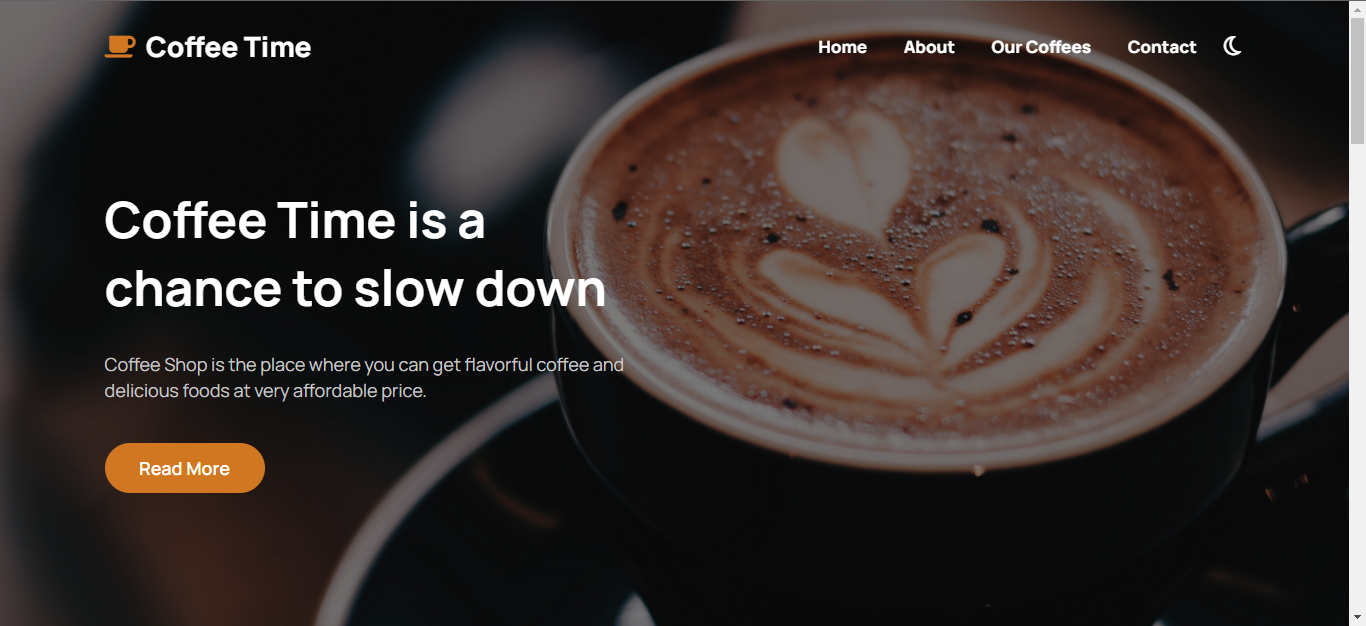
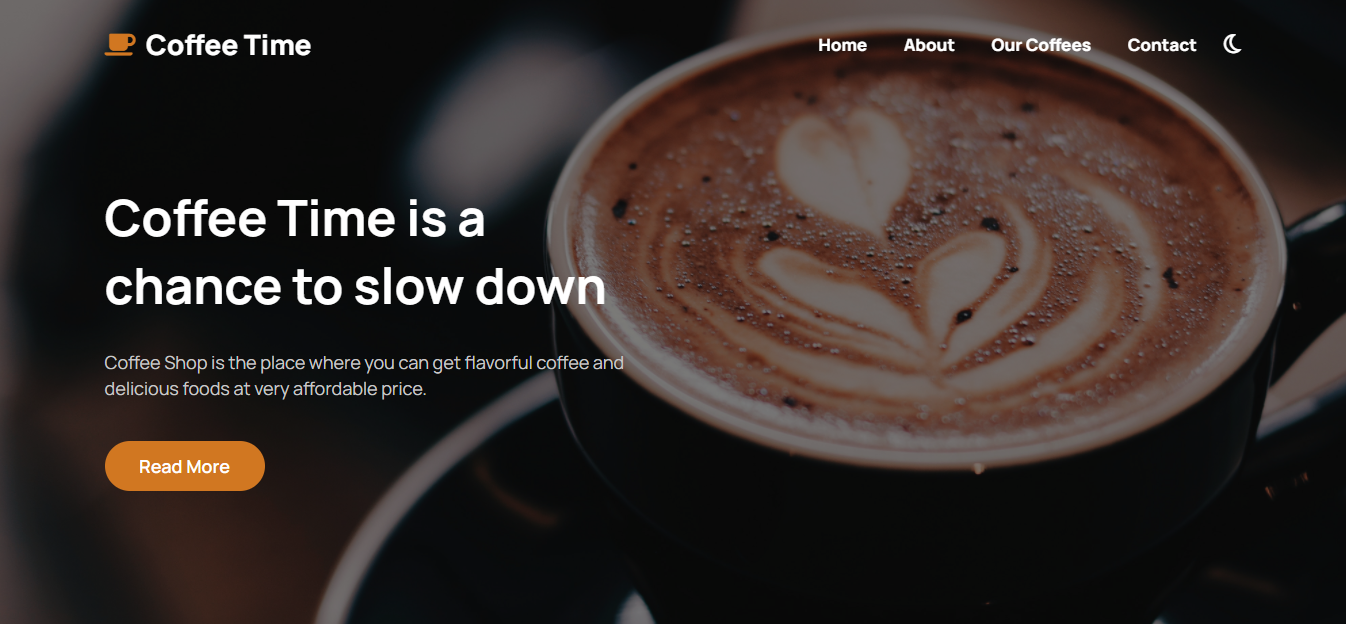
finish-portfolio

diff --git a/src/components/portfolios/PortfolioDetails.vue b/src/components/portfolios/PortfolioDetails.vue
@@ -2,16 +2,27 @@
 import { ref } from 'vue'
 import CreationVue from './Creation.vue'
 import coffee from '../../assets/projects-img/coffee.png'
+import disney from '../../assetS/projects-img/disney2.png'
+import store from '../../assetS/projects-img/Capture.jpg'
+import hxh from '../../assetS/projects-img/hunterxhunterpage.jpg'
+import todo from '../../assetS/projects-img/todo-proj.jpg'
 
 const portfolios = ref([
-    { name: 'Coffee Website', image:coffee, details:'A coffee website is a website that allow the user to view and choose their favorite coffee in the menu', tools:['HTML', 'CSS', 'JavaScript'], code:'https://github.com/lukeqwrt/Coffee-shop', livedemo:'https://coffee-shop-sillano.netlify.app/' }
+    { name: 'Coffee Website', image:coffee, details:'A coffee website is a website that allow the user to view and choose their favorite coffee in the menu', tools:['HTML', 'CSS', 'JavaScript'], code:'https://github.com/lukeqwrt/Coffee-shop', livedemo:'https://coffee-shop-sillano.netlify.app/' },
+    { name: 'Disney Clone', image:disney, details:'A Disney Plus Clone using tmdb api and Firebase Authentication enabling the user to view trending movies by genre and also see the details.', tools:['Vue JS', 'SCSS'], code:'https://github.com/lukeqwrt/disney-clone', livedemo:'https://lukeqwrt.github.io/disney-clone/' },
+    { name: 'E-commerce Website', image:store, details:'This is and E-commerce website store that allow the user to shop and pick items to add cart and has a nice design and page', tools:['HTML', 'CSS', 'JavaScript'], code:'https://github.com/lukeqwrt/store-website', livedemo:'https://lukeqwrt.github.io/store-website/' },
+    { name: 'Anime Website', image:hxh, details:'This is a simple anime website that shows the details of the authors and where we can watch it etc.', tools:['HTML', 'CSS', 'JavaScript'], code:'https://github.com/lukeqwrt/HunterXHunter', livedemo:'https://hunterxhunterpage.netlify.app/' },
+    { name: 'Todo App', image:todo, details:'This is a simple todo-list web application to practice my skills in vue.', tools:['Vue JS', 'CSS'], code:'https://github.com/lukeqwrt/TODO', livedemo:'https://lukeqwrt.github.io/TODO/' },
 ])
 
 </script>
 
 <template>
-    <ul class="portfolio_details py-5">
-        <li class="dev sm:flex sm:gap-5 lg:gap-8" v-for="portfolio in portfolios" :key="portfolio">
+    <ul class="portfolio_details grid gap-16 py-5 ">
+        <li 
+            :class="{'sm:flex-row-reverse' : index % 2 == 0}"
+            class="dev md:flex sm:gap-5 lg:gap-10 p-5" v-for="(portfolio, index) in portfolios" :key="portfolio"
+        >
             <CreationVue :PortDetails="portfolio" />
         </li>
     </ul>

diff --git a/src/views/HomeView.vue b/src/views/HomeView.vue
@@ -4,33 +4,41 @@ import White from '../assets/mypic/white.jpg'
 import TechStack from '../components/landing/TechStack.vue'
 import AboutMe from "../components/about/AboutMe.vue"
 import Portfolio from "../components/portfolios/Portfolio.vue"
+import Contact from "../components/contact/Contact.vue"
+import Footer from "../components/footer/footer.vue"
 
 </script>
 
 <template>
   <main>
     <!-- landing -->
-    <div class="landing p-5 md:p-12 container mx-auto flex flex-col justify-start sm:justify-center items-center relative" >
-      <div class="wrapper">
-        <div class="flex-1 flex gap-4 flex-col justify-center items-center sm:items-start sm:flex-row-reverse sm:gap-10 sm:flex-[unset] sm:mb-[4rem] md:items-center md:mb-[6rem] md:gap-[3rem] lg:gap-[9rem] lg:mb-[6rem]">
+    <section id="Home" class="landing h-[100vh] p-5 md:p-12 container mx-auto flex flex-col justify-center sm:justify-center items-center " >
+      <div class="wrapper w-full sm:w-[unset] h-full lg:max-h-[580px] flex flex-col justify-center items-center relative">
+        <div class="flex-1 flex gap-4 flex-col justify-center items-center sm:items-start sm:flex-row-reverse sm:gap-10 sm:flex-[unset]  md:items-center  md:gap-[3rem] lg:gap-[9rem] ">
           <img :src="White" alt="" class="rounded-full object-cover h-auto w-[180px] sm:w-[200px] md:w-[290px]">
           <!-- title content -->
           <TitleContentVue />
         </div>
         <TechStack />
       </div>
-    </div>
+    </section>
 
     <!-- about me -->
     <AboutMe />
 
     <!-- Portfolios -->
     <Portfolio />
+
+    <!-- Contact -->
+    <Contact />
+
+    <!-- Footer -->
+    <Footer />
   </main>
 </template>
 
 <style scoped>
-  .landing{
+  /* .landing{
     height: calc(100vh - 75px);
   }
 
@@ -38,5 +46,5 @@ import Portfolio from "../components/portfolios/Portfolio.vue"
     .landing{
       height: calc(100vh - 100px);
     }
-}
+} */
 </style>

diff --git a/src/components/about/AboutMe.vue b/src/components/about/AboutMe.vue
@@ -1,13 +1,18 @@
 <script setup>
+
 </script>
 
+<!-- data-aos="fade-up" 
+            data-aos-delay="550"
+            data-aos-duration="1000" -->
 <template>
-    <section class="about py-12 my-5">
+    <section id="About" class="about py-12 my-5 " >
         <div class="about_wrapper lg:py-12 container sm:max-w-[566px] md:max-w-[720px] lg:max-w-[840px] mx-auto flex flex-col gap-10 lg:gap-12  md:flex-row">
             <div class="about-photo">
-                <img class="rounded-lg md:w-[3300px] lg:w-[2800px] h-auto" src="../../assets/img/about2_croped.jpg" alt="">
+                <img class="rounded-lg w-[300px] md:w-[3300px] lg:w-[2800px] h-auto" src="../../assets/img/about2_croped.jpg" alt="">
             </div>
-            <div class="about_details">
+            <div class="about_details"
+            >
                 <h3 class="section_title">ABOUT ME</h3>
                 <h1 class="second_title">A dedicated Front-end Developer based in Philippines</h1>
                 <p class="text-[#686868] text-sm leading-6">As a Junior Front-end Developer, I possess an impressive arsenal of skills in HTML, CSS, JavaScript, Vue, Tailwind CSS, Bootstrap and SCSS. I excel in designing and maintaining responsive websites that offer a smooth user experience. My expertise lies in crafting dynamic, engaging interfaces through writing clean and optimized code and utilizing cutting-edge development tools and techniques. I am also a team player who thrives in collaborating with cross functional teams to produce outstanding web applications.</p>

diff --git a/src/components/header/Header.vue b/src/components/header/Header.vue
@@ -1,5 +1,5 @@
 <script setup>
-import { ref } from 'vue'
+import { ref, onMounted } from 'vue'
 import MobileNav from '../header/MobileNav.vue';
 import NavItems from '../header/NavItems.vue';
 
@@ -10,13 +10,26 @@ const navBarClicked = () => {
   toggleActive.value = !toggleActive.value
 }
 
+const currentwidth = ref() 
+ 
+
+
+  window.addEventListener("resize", () => {
+    if(currentwidth.value <= 768){
+        toggleActive.value = false;
+        return;
+    }
+    toggleActive.value = false
+    return
+  })
+  
+
 </script>
 
 <template>
-  <header class=" h-[75px] w-full px-5 md:px-12 lg:container lg:mx-auto lg:h-[100px]">
-      <nav class="h-full flex items-center justify-between relative">
-        <h3 class="logo text-lg sm:text-xl font-[600] lg:text-2xl">Luke&Aira</h3>
-
+  <header class="bg-[#fff] h-[75px]  px-5 md:px-12 lg:container lg:mx-auto lg:h-[78px] fixed w-full z-50 top-0 left-0 right-0">
+      <nav class="h-full  flex items-center justify-between relative">
+        <h3 class="logo text-lg sm:text-xl font-[600] lg:text-1xl">Luke.dev();</h3>
         <div @click="navBarClicked()" class="navbar-toggle absolute right-0 top-[50%] translate-y-[-50%] cursor-pointer block md:hidden z-20">
           <span class="w-[25px] h-[3px] my-[5px] mx-auto block bg-black duration-200" :class="toggleActive ? 'translate-y-[8px] rotate-[45deg]' : 'translate-y-[0px]' "></span>
           <span class="w-[25px] h-[3px] my-[5px] mx-auto block bg-black duration-200" :class="toggleActive ? 'opacity-0' : 'opacity-1' "></span>

diff --git a/src/components/contact/Contact.vue b/src/components/contact/Contact.vue
@@ -1,0 +1,29 @@
+<script setup>
+import { ref } from 'vue'
+
+const contact_details = ref([
+    { name: 'Location', description: 'Philippines', image:'fa-solid fa-map-location-dot'},
+    { name: 'Email', description: 'lukeadrian9@gmail.com', image:'fa-solid fa-square-envelope'},
+    { name: 'Facebook', description: 'luke sillano', image:'fa-brands fa-square-facebook'},
+])
+</script>
+
+<template>
+    <section id="Contact" class="contact py-12 my-5">
+        <div class="contact_wrapper lg:py-12 container sm:max-w-[566px] md:max-w-[720px] lg:max-w-[840px] mx-auto flex flex-col ">
+            <div class="contact-title mb-5 md:mb-10">
+                <h3 class="section_title">CONTACT ME</h3>
+                <h1 class="second_title">Don't be shy! Message me!</h1>
+            </div>
+            <div class="contact_details flex flex-wrap justify-between md:justify-start gap-8 py-4 md:gap-12">
+                <div class="detail flex-grow-1 flex items-center gap-4 md:gap-5" v-for="cd in contact_details" :key="cd.name">
+                    <i :class="cd.image" class=" text-2xl md:text-4xl text-[#478ae2]"></i>
+                    <div class="detail_content flex gap-1 flex-col">
+                        <span class="font-bold text-md">{{ cd.name }}</span>
+                        <span class="text-[#686868] text-sm">{{ cd.description }}</span>
+                    </div>
+                </div>
+            </div>
+        </div>
+    </section>
+</template>

diff --git a/src/components/portfolios/Creation.vue b/src/components/portfolios/Creation.vue
@@ -5,8 +5,8 @@ const { name, image, details, tools, code, livedemo } = props.PortDetails
 </script>
 
 <template>
-    <div class="detail_image mb-5 px-5">
-        <img :src="image" alt="none" class="rounded-md h-auto sm:max-w-[320px] lg:max-w-[400px]">
+    <div class="detail_image mb-7 md:mb-0">
+        <img :src="image" alt="none" class="rounded-md h-auto md:max-w-[320px] lg:max-w-[400px]" style="box-shadow: rgba(0, 0, 0, 0.45) 0px 25px 20px -20px;">
     </div>
     <div class="detail_content px-3 text-center">
         <h2 class="font-bold text-lg mb-2">{{ name }}</h2>
@@ -19,11 +19,11 @@ const { name, image, details, tools, code, livedemo } = props.PortDetails
             </li>
         </ul>
         <div class="links flex justify-around mt-5 text-md font-bold">
-            <a href="" class="flex gap-3 justify-center items-center">
+            <a target="_blank" rel="noopener noreferrer" :href="code" class="flex gap-3 justify-center items-center">
                 <span>Code</span>
                 <img class="h-[25px] w-[25px]" src="../../assets/img/github-mark.png" alt="">
             </a>
-            <a href="" class="flex gap-3 justify-center items-center">
+            <a target="_blank" rel="noopener noreferrer" :href="livedemo" class="flex gap-3 justify-center items-center">
                 <span>Live Demo</span>
                 <i class="fa-solid fa-arrow-up-right-from-square"></i>
             </a>

diff --git a/src/components/header/NavItems.vue b/src/components/header/NavItems.vue
@@ -8,19 +8,23 @@ const navitems = ref([
   { name: 'Contact' },
 ])
 
+const navitemClick = () => {
+    this.$refs.targetRef.scrollIntoView({ behavior: 'smooth' });
+}
+
 </script>
 
 <template>
     <ul class="">
-        <li 
-            v-for="nav in navitems" :key="nav" 
-            class="navitem flex justify-center items-center cursor-pointer group"
-            >
-            <div class="relative  py-3 md:py-2 text-md cursor-pointer font-[600]">
-                {{ nav.name }}
-                <span class="underline absolute bottom-0 left-[50%] translate-x-[-50%] block h-[2px] bg-black duration-200 w-0 group-hover:w-full"></span>
-            </div>
-            
-        </li>
+        <a :href="`#${nav.name}`" v-for="nav in navitems" :key="nav" 
+                class="navitem flex justify-center items-center cursor-pointer group">
+            <li>
+                <div class="relative  py-3 md:py-2 text-md cursor-pointer font-[600]">
+                    {{ nav.name }}
+                    <span class="underline absolute bottom-0 left-[50%] translate-x-[-50%] block h-[2px] bg-black duration-200 w-0 group-hover:w-full"></span>
+                </div>
+                
+            </li>
+        </a>
     </ul>
 </template>

diff --git a/src/components/portfolios/Portfolio.vue b/src/components/portfolios/Portfolio.vue
@@ -4,9 +4,9 @@ import PortfolioDetails from './PortfolioDetails.vue';
 </script>
 
 <template>
-   <section class="portfolio py-5">
-    <div class="portfolio_wrapper container lg:py-12 sm:max-w-[566px] md:max-w-[720px] lg:max-w-[840px] mx-auto">
-        <div class="portfolio_title mb-12">
+   <section id="Projects" class="portfolio py-5">
+    <div class="portfolio_wrapper container lg:py-5 sm:max-w-[566px] md:max-w-[720px] lg:max-w-[840px] mx-auto">
+        <div class="portfolio_title mb-5 md:mb-10">
             <h3 class="section_title">PORTFOLIO</h3>
             <h1 class="second_title">Each project is a unique piece of development</h1>
         </div>
@@ -15,3 +15,5 @@ import PortfolioDetails from './PortfolioDetails.vue';
     </div>
    </section>
 </template>
+
+

diff --git a/src/components/landing/TitleContent.vue b/src/components/landing/TitleContent.vue
@@ -14,7 +14,7 @@ import linkedin from '../../assets/img/linkedin.png'
         </div>
 
         <div class="details w-full max-w-[255px] text-center sm:text-left md:w-full md:max-w-[310px] justify-self-center md:justify-self-start">
-            <span class="text-[13px] md:text-[14px]">Hi, I'm Luke Adrian Sillano. A passionate front Front-End Developer blablabla</span>
+            <span class="text-[13px] md:text-[14px]">Hi, I'm Luke Adrian Sillano. A passionate front Front-End Developer. I want to be successful some day</span>
         </div>
 
         <div class="logos justify-self-center sm:justify-self-start flex items-center gap-3 md:gap-5 justify-center">

diff --git a/src/components/landing/TechStack.vue b/src/components/landing/TechStack.vue
@@ -13,7 +13,7 @@ const techStack = ref([html, css, js, tailwind, bootstrap, sass, firebase])
 </script>
 
 <template>
-    <div class="tech pe-2 flex gap-2 absolute bottom-5 left-5 sm:relative sm:left-0 lg:gap-4">
+    <div class="tech pe-2 flex gap-2 absolute bottom-0 left-0 sm:left-0  md:left-0 md:bottom-0 lg:gap-4">
         <div class="w-[60px] sm:w-[100px] lg:w-[120px] flex justify-between items-center">
             <span class="font-bold text-sm lg:text-lg">Tech Stack </span>
             <div class=" font-[400]">|</div> 

diff --git a/src/components/footer/footer.vue b/src/components/footer/footer.vue
@@ -1,0 +1,11 @@
+<script setup>
+</script>
+
+<template>
+    <section class="footer bg-[#131313] text-white text-center md:text-left">
+        <div class="wrapper py-8 container sm:max-w-[566px] md:max-w-[720px] lg:max-w-[840px] mx-auto flex flex-col gap-10 lg:gap-12">
+            <span class="text-[13px] md:text-sm">LUKE ADRIAN SILLANO ©2023 | All rights are reserved </span>
+
+        </div>
+    </section>
+</template>

diff --git a/src/main.js b/src/main.js
@@ -1,14 +1,18 @@
 import './assets/main.css'
 
+
 import { createApp } from 'vue'
 import { createPinia } from 'pinia'
 
 import App from './App.vue'
 import router from './router'
+import AOS from 'aos'
+import 'aos/dist/aos.css'
 
 const app = createApp(App)
 
 app.use(createPinia())
 app.use(router)
+// app.use(AOS.init({disable: 'mobile'}))
 
 app.mount('#app')
